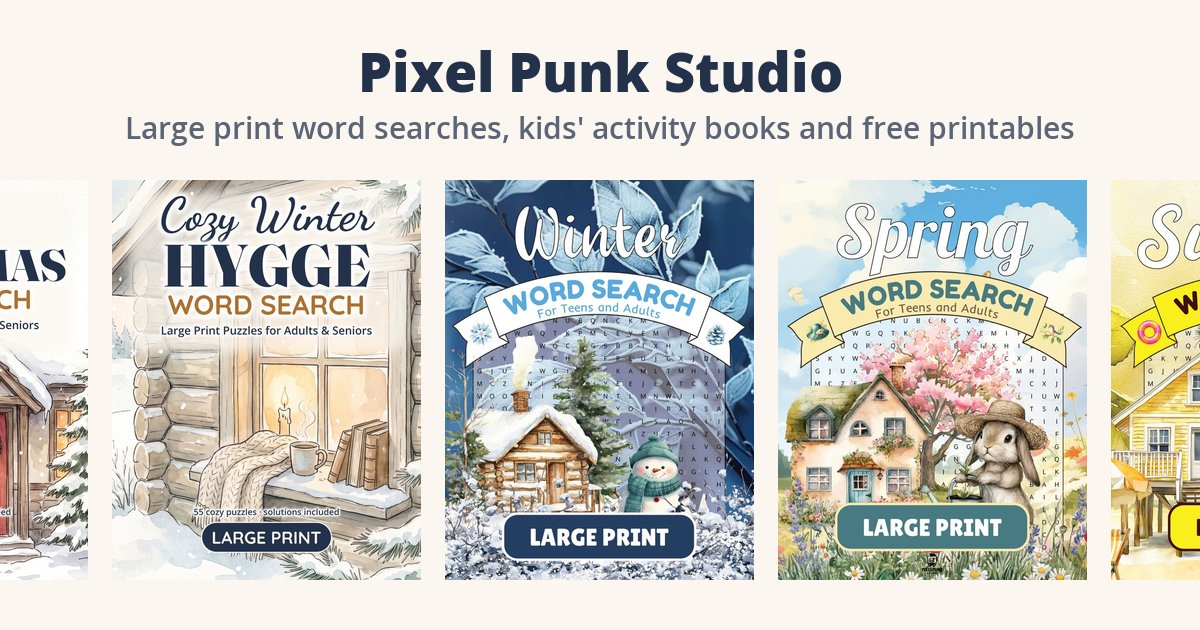
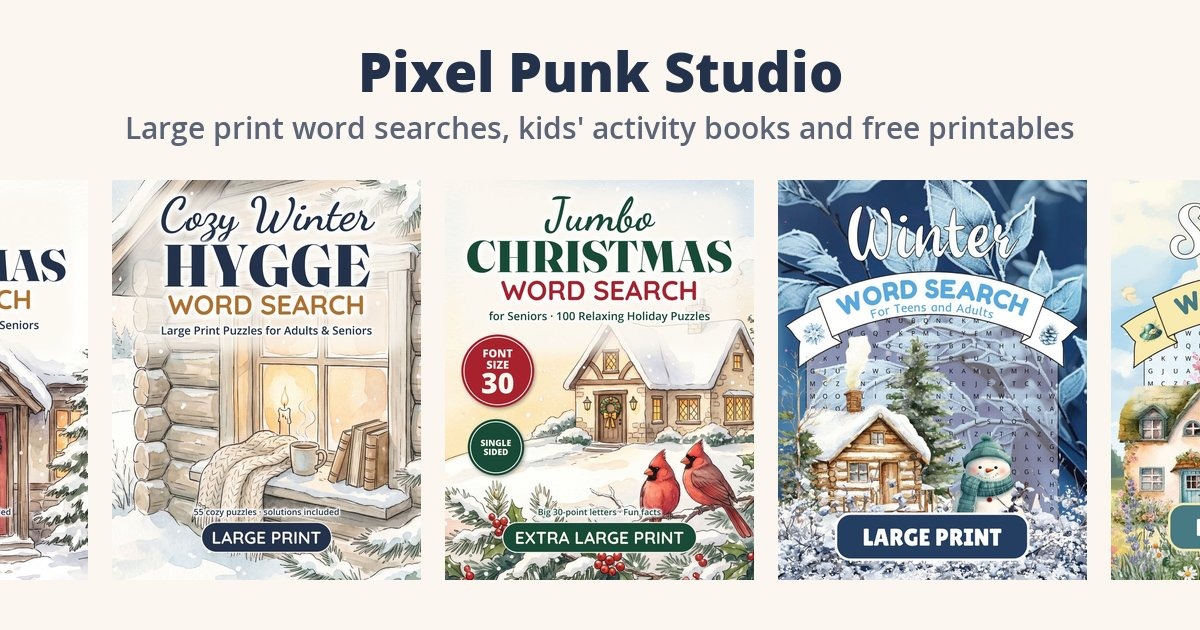
Update catalog

diff --git a/index.html b/index.html
@@ -19,7 +19,7 @@
 <link rel="alternate" type="application/rss+xml" title="Pixel Punk Studio blog" href="https://pixelpunkstudio.shop/feed.xml">
 <link rel="stylesheet" href="style.css?v=f5bd9f60">
 <script type="application/ld+json">{"@context": "https://schema.org", "@type": "Organization", "name": "Pixel Punk Studio", "url": "https://pixelpunkstudio.shop/", "logo": "https://pixelpunkstudio.shop/logo.png", "email": "hello@pixelpunkstudio.shop", "sameAs": ["https://www.amazon.com/Pixel-Punk-Studio/e/B0FCYYJ5FY"]}</script>
-<script type="application/ld+json">{"@context": "https://schema.org", "@type": "ItemList", "name": "Pixel Punk Studio books", "itemListElement": [{"@type": "ListItem", "position": 1, "item": {"@context": "https://schema.org", "@type": "Book", "name": "Cozy Christmas Word Search", "description": "55 festive large print puzzles, from the Nativity and the Nutcracker to Christmas around the world", "image": "https://pixelpunkstudio.shop/covers/cozy-christmas.jpg", "author": {"@type": "Organization", "name": "Pixel Punk Studio", "url": "https://pixelpunkstudio.shop/"}, "publisher": {"@type": "Organization", "name": "Pixel Punk Studio"}, "bookFormat": "https://schema.org/Paperback", "inLanguage": "en-US", "url": "https://www.amazon.com/dp/B0HNTD7VS7", "sameAs": "https://www.amazon.com/dp/B0HNTD7VS7"}}, {"@type": "ListItem", "position": 2, "item": {"@context": "https://schema.org", "@type": "Book", "name": "Cozy Winter Hygge Word Search", "description": "55 relaxing large print puzzles inspired by the Scandinavian art of cozy living", "image": "https://pixelpunkstudio.shop/covers/cozy-winter-hygge.jpg", "author": {"@type": "Organization", "name": "Pixel Punk Studio", "url": "https://pixelpunkstudio.shop/"}, "publisher": {"@type": "Organization", "name": "Pixel Punk Studio"}, "bookFormat": "https://schema.org/Paperback", "inLanguage": "en-US", "url": "https://www.amazon.com/dp/B0HMJH6W21", "sameAs": "https://www.amazon.com/dp/B0HMJH6W21"}}, {"@type": "ListItem", "position": 3, "item": {"@context": "https://schema.org", "@type": "Book", "name": "Snowy Days Winter Word Search", "description": "55 winter activity puzzles, from building snowmen to sipping hot cocoa", "image": "https://pixelpunkstudio.shop/covers/winter-snowy-days.jpg", "author": {"@type": "Organization", "name": "Pixel Punk Studio", "url": "https://pixelpunkstudio.shop/"}, "publisher": {"@type": "Organization", "name": "Pixel Punk Studio"}, "bookFormat": "https://schema.org/Paperback", "inLanguage": "en-US", "url": "https://www.amazon.com/dp/B0DS9SG35T", "sameAs": "https://www.amazon.com/dp/B0DS9SG35T"}}, {"@type": "ListItem", "position": 4, "item": {"@context": "https://schema.org", "@type": "Book", "name": "Fresh Blooms Spring Word Search", "description": "55 spring puzzles full of gardens, picnics and blossoms", "image": "https://pixelpunkstudio.shop/covers/spring-fresh-blooms.jpg", "author": {"@type": "Organization", "name": "Pixel Punk Studio", "url": "https://pixelpunkstudio.shop/"}, "publisher": {"@type": "Organization", "name": "Pixel Punk Studio"}, "bookFormat": "https://schema.org/Paperback", "inLanguage": "en-US", "url": "https://www.amazon.com/dp/B0FLXRGFZY", "sameAs": "https://www.amazon.com/dp/B0FLXRGFZY"}}, {"@type": "ListItem", "position": 5, "item": {"@context": "https://schema.org", "@type": "Book", "name": "Sunny Vibes Summer Word Search", "description": "55 summer puzzles about camping, beaches and long sunny days", "image": "https://pixelpunkstudio.shop/covers/summer-sunny-vibes.jpg", "author": {"@type": "Organization", "name": "Pixel Punk Studio", "url": "https://pixelpunkstudio.shop/"}, "publisher": {"@type": "Organization", "name": "Pixel Punk Studio"}, "bookFormat": "https://schema.org/Paperback", "inLanguage": "en-US", "url": "https://www.amazon.com/dp/B0FRXWL9R7", "sameAs": "https://www.amazon.com/dp/B0FRXWL9R7"}}, {"@type": "ListItem", "position": 6, "item": {"@context": "https://schema.org", "@type": "Book", "name": "Crisp Leaves Fall Word Search", "description": "55 autumn puzzles with apple picking, hayrides and cozy campfires", "image": "https://pixelpunkstudio.shop/covers/fall-crisp-leaves.jpg", "author": {"@type": "Organization", "name": "Pixel Punk Studio", "url": "https://pixelpunkstudio.shop/"}, "publisher": {"@type": "Organization", "name": "Pixel Punk Studio"}, "bookFormat": "https://schema.org/Paperback", "inLanguage": "en-US", "url": "https://www.amazon.com/dp/B0FDL4QN1M", "sameAs": "https://www.amazon.com/dp/B0FDL4QN1M"}}, {"@type": "ListItem", "position": 7, "item": {"@context": "https://schema.org", "@type": "Book", "name": "Life on the Farm Word Search for Kids", "description": "50 farm-themed puzzles with fun facts about animals and activities", "image": "https://pixelpunkstudio.shop/covers/life-on-the-farm.jpg", "author": {"@type": "Organization", "name": "Pixel Punk Studio", "url": "https://pixelpunkstudio.shop/"}, "publisher": {"@type": "Organization", "name": "Pixel Punk Studio"}, "bookFormat": "https://schema.org/Paperback", "inLanguage": "en-US", "url": "https://www.amazon.com/dp/B0FHKMG9KK", "sameAs": "https://www.amazon.com/dp/B0FHKMG9KK"}}, {"@type": "ListItem", "position": 8, "item": {"@context": "https://schema.org", "@type": "Book", "name": "Bug Hunt Word Search Coloring Book", "description": "55 bug word searches with color-the-letters puzzles", "image": "https://pixelpunkstudio.shop/covers/bug-hunt.jpg", "author": {"@type": "Organization", "name": "Pixel Punk Studio", "url": "https://pixelpunkstudio.shop/"}, "publisher": {"@type": "Organization", "name": "Pixel Punk Studio"}, "bookFormat": "https://schema.org/Paperback", "inLanguage": "en-US", "url": "https://www.amazon.com/dp/B0G3H1KJLN", "sameAs": "https://www.amazon.com/dp/B0G3H1KJLN"}}, {"@type": "ListItem", "position": 9, "item": {"@context": "https://schema.org", "@type": "Book", "name": "Cute Farm Days Coloring Book", "description": "Adorable farm animals with easy designs and fun facts", "image": "https://pixelpunkstudio.shop/covers/cute-farm-days.jpg", "author": {"@type": "Organization", "name": "Pixel Punk Studio", "url": "https://pixelpunkstudio.shop/"}, "publisher": {"@type": "Organization", "name": "Pixel Punk Studio"}, "bookFormat": "https://schema.org/Paperback", "inLanguage": "en-US", "url": "https://www.amazon.com/dp/B0FBM7X2HR", "sameAs": "https://www.amazon.com/dp/B0FBM7X2HR"}}, {"@type": "ListItem", "position": 10, "item": {"@context": "https://schema.org", "@type": "Book", "name": "Cute Bug Days Coloring Book", "description": "50 cute bugs and insects to color, with a fun fact on every page", "image": "https://pixelpunkstudio.shop/covers/cute-bug-days.jpg", "author": {"@type": "Organization", "name": "Pixel Punk Studio", "url": "https://pixelpunkstudio.shop/"}, "publisher": {"@type": "Organization", "name": "Pixel Punk Studio"}, "bookFormat": "https://schema.org/Paperback", "inLanguage": "en-US", "url": "https://www.amazon.com/dp/B0HNTC7ZBX", "sameAs": "https://www.amazon.com/dp/B0HNTC7ZBX"}}, {"@type": "ListItem", "position": 11, "item": {"@context": "https://schema.org", "@type": "Book", "name": "Retirement Word Search", "description": "55 fun puzzles inspired by hobbies, travel, creativity and wellness", "image": "https://pixelpunkstudio.shop/covers/retirement.jpg", "author": {"@type": "Organization", "name": "Pixel Punk Studio", "url": "https://pixelpunkstudio.shop/"}, "publisher": {"@type": "Organization", "name": "Pixel Punk Studio"}, "bookFormat": "https://schema.org/Paperback", "inLanguage": "en-US", "url": "https://www.amazon.com/dp/B0HGB15BJ2", "sameAs": "https://www.amazon.com/dp/B0HGB15BJ2"}}, {"@type": "ListItem", "position": 12, "item": {"@context": "https://schema.org", "@type": "Book", "name": "Sudoku of Love", "description": "500+ romantic sudoku puzzles, very easy to hard, with solutions", "image": "https://pixelpunkstudio.shop/covers/sudoku-of-love.jpg", "author": {"@type": "Organization", "name": "Pixel Punk Studio", "url": "https://pixelpunkstudio.shop/"}, "publisher": {"@type": "Organization", "name": "Pixel Punk Studio"}, "bookFormat": "https://schema.org/Paperback", "inLanguage": "en-US", "url": "https://www.amazon.com/dp/B0DVR3HN6Q", "sameAs": "https://www.amazon.com/dp/B0DVR3HN6Q"}}]}</script>
+<script type="application/ld+json">{"@context": "https://schema.org", "@type": "ItemList", "name": "Pixel Punk Studio books", "itemListElement": [{"@type": "ListItem", "position": 1, "item": {"@context": "https://schema.org", "@type": "Book", "name": "Cozy Christmas Word Search", "description": "55 festive large print puzzles, from the Nativity and the Nutcracker to Christmas around the world", "image": "https://pixelpunkstudio.shop/covers/cozy-christmas.jpg", "author": {"@type": "Organization", "name": "Pixel Punk Studio", "url": "https://pixelpunkstudio.shop/"}, "publisher": {"@type": "Organization", "name": "Pixel Punk Studio"}, "bookFormat": "https://schema.org/Paperback", "inLanguage": "en-US", "url": "https://www.amazon.com/dp/B0HNTD7VS7", "sameAs": "https://www.amazon.com/dp/B0HNTD7VS7"}}, {"@type": "ListItem", "position": 2, "item": {"@context": "https://schema.org", "@type": "Book", "name": "Cozy Winter Hygge Word Search", "description": "55 relaxing large print puzzles inspired by the Scandinavian art of cozy living", "image": "https://pixelpunkstudio.shop/covers/cozy-winter-hygge.jpg", "author": {"@type": "Organization", "name": "Pixel Punk Studio", "url": "https://pixelpunkstudio.shop/"}, "publisher": {"@type": "Organization", "name": "Pixel Punk Studio"}, "bookFormat": "https://schema.org/Paperback", "inLanguage": "en-US", "url": "https://www.amazon.com/dp/B0HMJH6W21", "sameAs": "https://www.amazon.com/dp/B0HMJH6W21"}}, {"@type": "ListItem", "position": 3, "item": {"@context": "https://schema.org", "@type": "Book", "name": "Jumbo Christmas Word Search for Seniors", "description": "100 extra large print Christmas puzzles in font size 30, with a fun fact beside every puzzle", "image": "https://pixelpunkstudio.shop/covers/jumbo-christmas.jpg", "author": {"@type": "Organization", "name": "Pixel Punk Studio", "url": "https://pixelpunkstudio.shop/"}, "publisher": {"@type": "Organization", "name": "Pixel Punk Studio"}, "bookFormat": "https://schema.org/Paperback", "inLanguage": "en-US", "url": "https://www.amazon.com/dp/B0HPL7DGYX", "sameAs": "https://www.amazon.com/dp/B0HPL7DGYX"}}, {"@type": "ListItem", "position": 4, "item": {"@context": "https://schema.org", "@type": "Book", "name": "Snowy Days Winter Word Search", "description": "55 winter activity puzzles, from building snowmen to sipping hot cocoa", "image": "https://pixelpunkstudio.shop/covers/winter-snowy-days.jpg", "author": {"@type": "Organization", "name": "Pixel Punk Studio", "url": "https://pixelpunkstudio.shop/"}, "publisher": {"@type": "Organization", "name": "Pixel Punk Studio"}, "bookFormat": "https://schema.org/Paperback", "inLanguage": "en-US", "url": "https://www.amazon.com/dp/B0DS9SG35T", "sameAs": "https://www.amazon.com/dp/B0DS9SG35T"}}, {"@type": "ListItem", "position": 5, "item": {"@context": "https://schema.org", "@type": "Book", "name": "Fresh Blooms Spring Word Search", "description": "55 spring puzzles full of gardens, picnics and blossoms", "image": "https://pixelpunkstudio.shop/covers/spring-fresh-blooms.jpg", "author": {"@type": "Organization", "name": "Pixel Punk Studio", "url": "https://pixelpunkstudio.shop/"}, "publisher": {"@type": "Organization", "name": "Pixel Punk Studio"}, "bookFormat": "https://schema.org/Paperback", "inLanguage": "en-US", "url": "https://www.amazon.com/dp/B0FLXRGFZY", "sameAs": "https://www.amazon.com/dp/B0FLXRGFZY"}}, {"@type": "ListItem", "position": 6, "item": {"@context": "https://schema.org", "@type": "Book", "name": "Sunny Vibes Summer Word Search", "description": "55 summer puzzles about camping, beaches and long sunny days", "image": "https://pixelpunkstudio.shop/covers/summer-sunny-vibes.jpg", "author": {"@type": "Organization", "name": "Pixel Punk Studio", "url": "https://pixelpunkstudio.shop/"}, "publisher": {"@type": "Organization", "name": "Pixel Punk Studio"}, "bookFormat": "https://schema.org/Paperback", "inLanguage": "en-US", "url": "https://www.amazon.com/dp/B0FRXWL9R7", "sameAs": "https://www.amazon.com/dp/B0FRXWL9R7"}}, {"@type": "ListItem", "position": 7, "item": {"@context": "https://schema.org", "@type": "Book", "name": "Crisp Leaves Fall Word Search", "description": "55 autumn puzzles with apple picking, hayrides and cozy campfires", "image": "https://pixelpunkstudio.shop/covers/fall-crisp-leaves.jpg", "author": {"@type": "Organization", "name": "Pixel Punk Studio", "url": "https://pixelpunkstudio.shop/"}, "publisher": {"@type": "Organization", "name": "Pixel Punk Studio"}, "bookFormat": "https://schema.org/Paperback", "inLanguage": "en-US", "url": "https://www.amazon.com/dp/B0FDL4QN1M", "sameAs": "https://www.amazon.com/dp/B0FDL4QN1M"}}, {"@type": "ListItem", "position": 8, "item": {"@context": "https://schema.org", "@type": "Book", "name": "Life on the Farm Word Search for Kids", "description": "50 farm-themed puzzles with fun facts about animals and activities", "image": "https://pixelpunkstudio.shop/covers/life-on-the-farm.jpg", "author": {"@type": "Organization", "name": "Pixel Punk Studio", "url": "https://pixelpunkstudio.shop/"}, "publisher": {"@type": "Organization", "name": "Pixel Punk Studio"}, "bookFormat": "https://schema.org/Paperback", "inLanguage": "en-US", "url": "https://www.amazon.com/dp/B0FHKMG9KK", "sameAs": "https://www.amazon.com/dp/B0FHKMG9KK"}}, {"@type": "ListItem", "position": 9, "item": {"@context": "https://schema.org", "@type": "Book", "name": "Bug Hunt Word Search Coloring Book", "description": "55 bug word searches with color-the-letters puzzles", "image": "https://pixelpunkstudio.shop/covers/bug-hunt.jpg", "author": {"@type": "Organization", "name": "Pixel Punk Studio", "url": "https://pixelpunkstudio.shop/"}, "publisher": {"@type": "Organization", "name": "Pixel Punk Studio"}, "bookFormat": "https://schema.org/Paperback", "inLanguage": "en-US", "url": "https://www.amazon.com/dp/B0G3H1KJLN", "sameAs": "https://www.amazon.com/dp/B0G3H1KJLN"}}, {"@type": "ListItem", "position": 10, "item": {"@context": "https://schema.org", "@type": "Book", "name": "Cute Farm Days Coloring Book", "description": "Adorable farm animals with easy designs and fun facts", "image": "https://pixelpunkstudio.shop/covers/cute-farm-days.jpg", "author": {"@type": "Organization", "name": "Pixel Punk Studio", "url": "https://pixelpunkstudio.shop/"}, "publisher": {"@type": "Organization", "name": "Pixel Punk Studio"}, "bookFormat": "https://schema.org/Paperback", "inLanguage": "en-US", "url": "https://www.amazon.com/dp/B0FBM7X2HR", "sameAs": "https://www.amazon.com/dp/B0FBM7X2HR"}}, {"@type": "ListItem", "position": 11, "item": {"@context": "https://schema.org", "@type": "Book", "name": "Cute Bug Days Coloring Book", "description": "50 cute bugs and insects to color, with a fun fact on every page", "image": "https://pixelpunkstudio.shop/covers/cute-bug-days.jpg", "author": {"@type": "Organization", "name": "Pixel Punk Studio", "url": "https://pixelpunkstudio.shop/"}, "publisher": {"@type": "Organization", "name": "Pixel Punk Studio"}, "bookFormat": "https://schema.org/Paperback", "inLanguage": "en-US", "url": "https://www.amazon.com/dp/B0HNTC7ZBX", "sameAs": "https://www.amazon.com/dp/B0HNTC7ZBX"}}, {"@type": "ListItem", "position": 12, "item": {"@context": "https://schema.org", "@type": "Book", "name": "Retirement Word Search", "description": "55 fun puzzles inspired by hobbies, travel, creativity and wellness", "image": "https://pixelpunkstudio.shop/covers/retirement.jpg", "author": {"@type": "Organization", "name": "Pixel Punk Studio", "url": "https://pixelpunkstudio.shop/"}, "publisher": {"@type": "Organization", "name": "Pixel Punk Studio"}, "bookFormat": "https://schema.org/Paperback", "inLanguage": "en-US", "url": "https://www.amazon.com/dp/B0HGB15BJ2", "sameAs": "https://www.amazon.com/dp/B0HGB15BJ2"}}, {"@type": "ListItem", "position": 13, "item": {"@context": "https://schema.org", "@type": "Book", "name": "Sudoku of Love", "description": "500+ romantic sudoku puzzles, very easy to hard, with solutions", "image": "https://pixelpunkstudio.shop/covers/sudoku-of-love.jpg", "author": {"@type": "Organization", "name": "Pixel Punk Studio", "url": "https://pixelpunkstudio.shop/"}, "publisher": {"@type": "Organization", "name": "Pixel Punk Studio"}, "bookFormat": "https://schema.org/Paperback", "inLanguage": "en-US", "url": "https://www.amazon.com/dp/B0DVR3HN6Q", "sameAs": "https://www.amazon.com/dp/B0DVR3HN6Q"}}]}</script>
 </head>
 <body><main class="wide">
 <header class="top">
@@ -132,12 +132,13 @@
     <p class="intro">Extra large print word searches in big 30-point letters, single sided, with a fun fact beside every puzzle. Made for seniors and anyone who prefers big, clear print.</p>
     <div class="grid">
       <article class="book">
+        <span class="new-pill">New</span>
         <img src="covers/jumbo-christmas.jpg" alt="Cover of Jumbo Christmas Word Search for Seniors" loading="lazy">
         <div class="info">
           <h3>Jumbo Christmas Word Search for Seniors</h3>
           <p>100 extra large print Christmas puzzles in font size 30, with a fun fact beside every puzzle</p>
           <div class="tags"><span class="tag">Font size 30</span><span class="tag">8.5 x 11</span><span class="tag">Seniors</span></div>
-          <span class="btn soon">Coming soon</span>
+          <a class="btn" href="https://www.amazon.com/dp/B0HPL7DGYX" target="_blank" rel="noopener">View on Amazon</a>
           <a class="free" href="free-printable-jumbo-christmas-word-search.html">⬇ Free printable puzzle</a>
         </div>
       </article>

diff --git a/free-printable-jumbo-christmas-word-search.html b/free-printable-jumbo-christmas-word-search.html
@@ -18,7 +18,7 @@
 <link rel="icon" href="logo.png">
 <link rel="alternate" type="application/rss+xml" title="Pixel Punk Studio blog" href="https://pixelpunkstudio.shop/feed.xml">
 <link rel="stylesheet" href="style.css?v=f5bd9f60">
-<script type="application/ld+json">{"@context": "https://schema.org", "@type": "CreativeWork", "name": "Free Printable Jumbo Christmas Word Search for Seniors (Extra Large Print)", "description": "Christmas Cookie Swap: an extra large print Christmas word search in 30-point letters with 18 words, from spritz, pizzelle and biscotti to sprinkles, frosting and the cookie exchange. Free to download and print at home on letter paper.", "url": "https://pixelpunkstudio.shop/free-printable-jumbo-christmas-word-search.html", "image": ["https://pixelpunkstudio.shop/media/printables/jumbo-christmas.jpg", "https://pixelpunkstudio.shop/media/pins/jumbo-christmas.jpg"], "isAccessibleForFree": true, "inLanguage": "en-US", "encodingFormat": "application/pdf", "author": {"@type": "Organization", "name": "Pixel Punk Studio", "url": "https://pixelpunkstudio.shop/"}, "about": [{"@context": "https://schema.org", "@type": "Book", "name": "Jumbo Christmas Word Search for Seniors", "description": "100 extra large print Christmas puzzles in font size 30, with a fun fact beside every puzzle", "image": "https://pixelpunkstudio.shop/covers/jumbo-christmas.jpg", "author": {"@type": "Organization", "name": "Pixel Punk Studio", "url": "https://pixelpunkstudio.shop/"}, "publisher": {"@type": "Organization", "name": "Pixel Punk Studio"}, "bookFormat": "https://schema.org/Paperback", "inLanguage": "en-US"}]}</script>
+<script type="application/ld+json">{"@context": "https://schema.org", "@type": "CreativeWork", "name": "Free Printable Jumbo Christmas Word Search for Seniors (Extra Large Print)", "description": "Christmas Cookie Swap: an extra large print Christmas word search in 30-point letters with 18 words, from spritz, pizzelle and biscotti to sprinkles, frosting and the cookie exchange. Free to download and print at home on letter paper.", "url": "https://pixelpunkstudio.shop/free-printable-jumbo-christmas-word-search.html", "image": ["https://pixelpunkstudio.shop/media/printables/jumbo-christmas.jpg", "https://pixelpunkstudio.shop/media/pins/jumbo-christmas.jpg"], "isAccessibleForFree": true, "inLanguage": "en-US", "encodingFormat": "application/pdf", "author": {"@type": "Organization", "name": "Pixel Punk Studio", "url": "https://pixelpunkstudio.shop/"}, "about": [{"@context": "https://schema.org", "@type": "Book", "name": "Jumbo Christmas Word Search for Seniors", "description": "100 extra large print Christmas puzzles in font size 30, with a fun fact beside every puzzle", "image": "https://pixelpunkstudio.shop/covers/jumbo-christmas.jpg", "author": {"@type": "Organization", "name": "Pixel Punk Studio", "url": "https://pixelpunkstudio.shop/"}, "publisher": {"@type": "Organization", "name": "Pixel Punk Studio"}, "bookFormat": "https://schema.org/Paperback", "inLanguage": "en-US", "url": "https://www.amazon.com/dp/B0HPL7DGYX", "sameAs": "https://www.amazon.com/dp/B0HPL7DGYX"}]}</script>
 <script type="application/ld+json">{"@context": "https://schema.org", "@type": "BreadcrumbList", "itemListElement": [{"@type": "ListItem", "position": 1, "name": "Pixel Punk Studio", "item": "https://pixelpunkstudio.shop/"}, {"@type": "ListItem", "position": 2, "name": "Free printables", "item": "https://pixelpunkstudio.shop/free-printables.html"}, {"@type": "ListItem", "position": 3, "name": "Jumbo Print Christmas Word Search", "item": "https://pixelpunkstudio.shop/free-printable-jumbo-christmas-word-search.html"}]}</script>
 </head><body><main class="wide">
 <header class="top">
@@ -63,7 +63,7 @@
   <h2>Enjoyed it? Get the full book</h2>
   <div class="grid"><article class="book">
   <img src="covers/jumbo-christmas.jpg" alt="Cover of Jumbo Christmas Word Search for Seniors" loading="lazy">
-  <div class="info"><h3>Jumbo Christmas Word Search for Seniors</h3><p>100 extra large print Christmas puzzles in font size 30, with a fun fact beside every puzzle</p><span class="btn soon">Coming soon</span></div>
+  <div class="info"><h3>Jumbo Christmas Word Search for Seniors</h3><p>100 extra large print Christmas puzzles in font size 30, with a fun fact beside every puzzle</p><a class="btn" href="https://www.amazon.com/dp/B0HPL7DGYX" target="_blank" rel="noopener">View on Amazon</a></div>
 </article></div>
 </section>
 <section>

diff --git a/word-search-difficulty-levels.html b/word-search-difficulty-levels.html
@@ -161,7 +161,7 @@ Search in large print, and Bug Hunt Word Search for young solvers.</p>
 </article>
 <article class="book">
   <img src="covers/jumbo-christmas.jpg" alt="Cover of Jumbo Christmas Word Search for Seniors" loading="lazy">
-  <div class="info"><h3>Jumbo Christmas Word Search for Seniors</h3><p>100 extra large print Christmas puzzles in font size 30, with a fun fact beside every puzzle</p><span class="btn soon">Coming soon</span></div>
+  <div class="info"><h3>Jumbo Christmas Word Search for Seniors</h3><p>100 extra large print Christmas puzzles in font size 30, with a fun fact beside every puzzle</p><a class="btn" href="https://www.amazon.com/dp/B0HPL7DGYX" target="_blank" rel="noopener">View on Amazon</a></div>
 </article>
 <article class="book">
   <img src="covers/bug-hunt.jpg" alt="Cover of Bug Hunt Word Search Coloring Book" loading="lazy">
